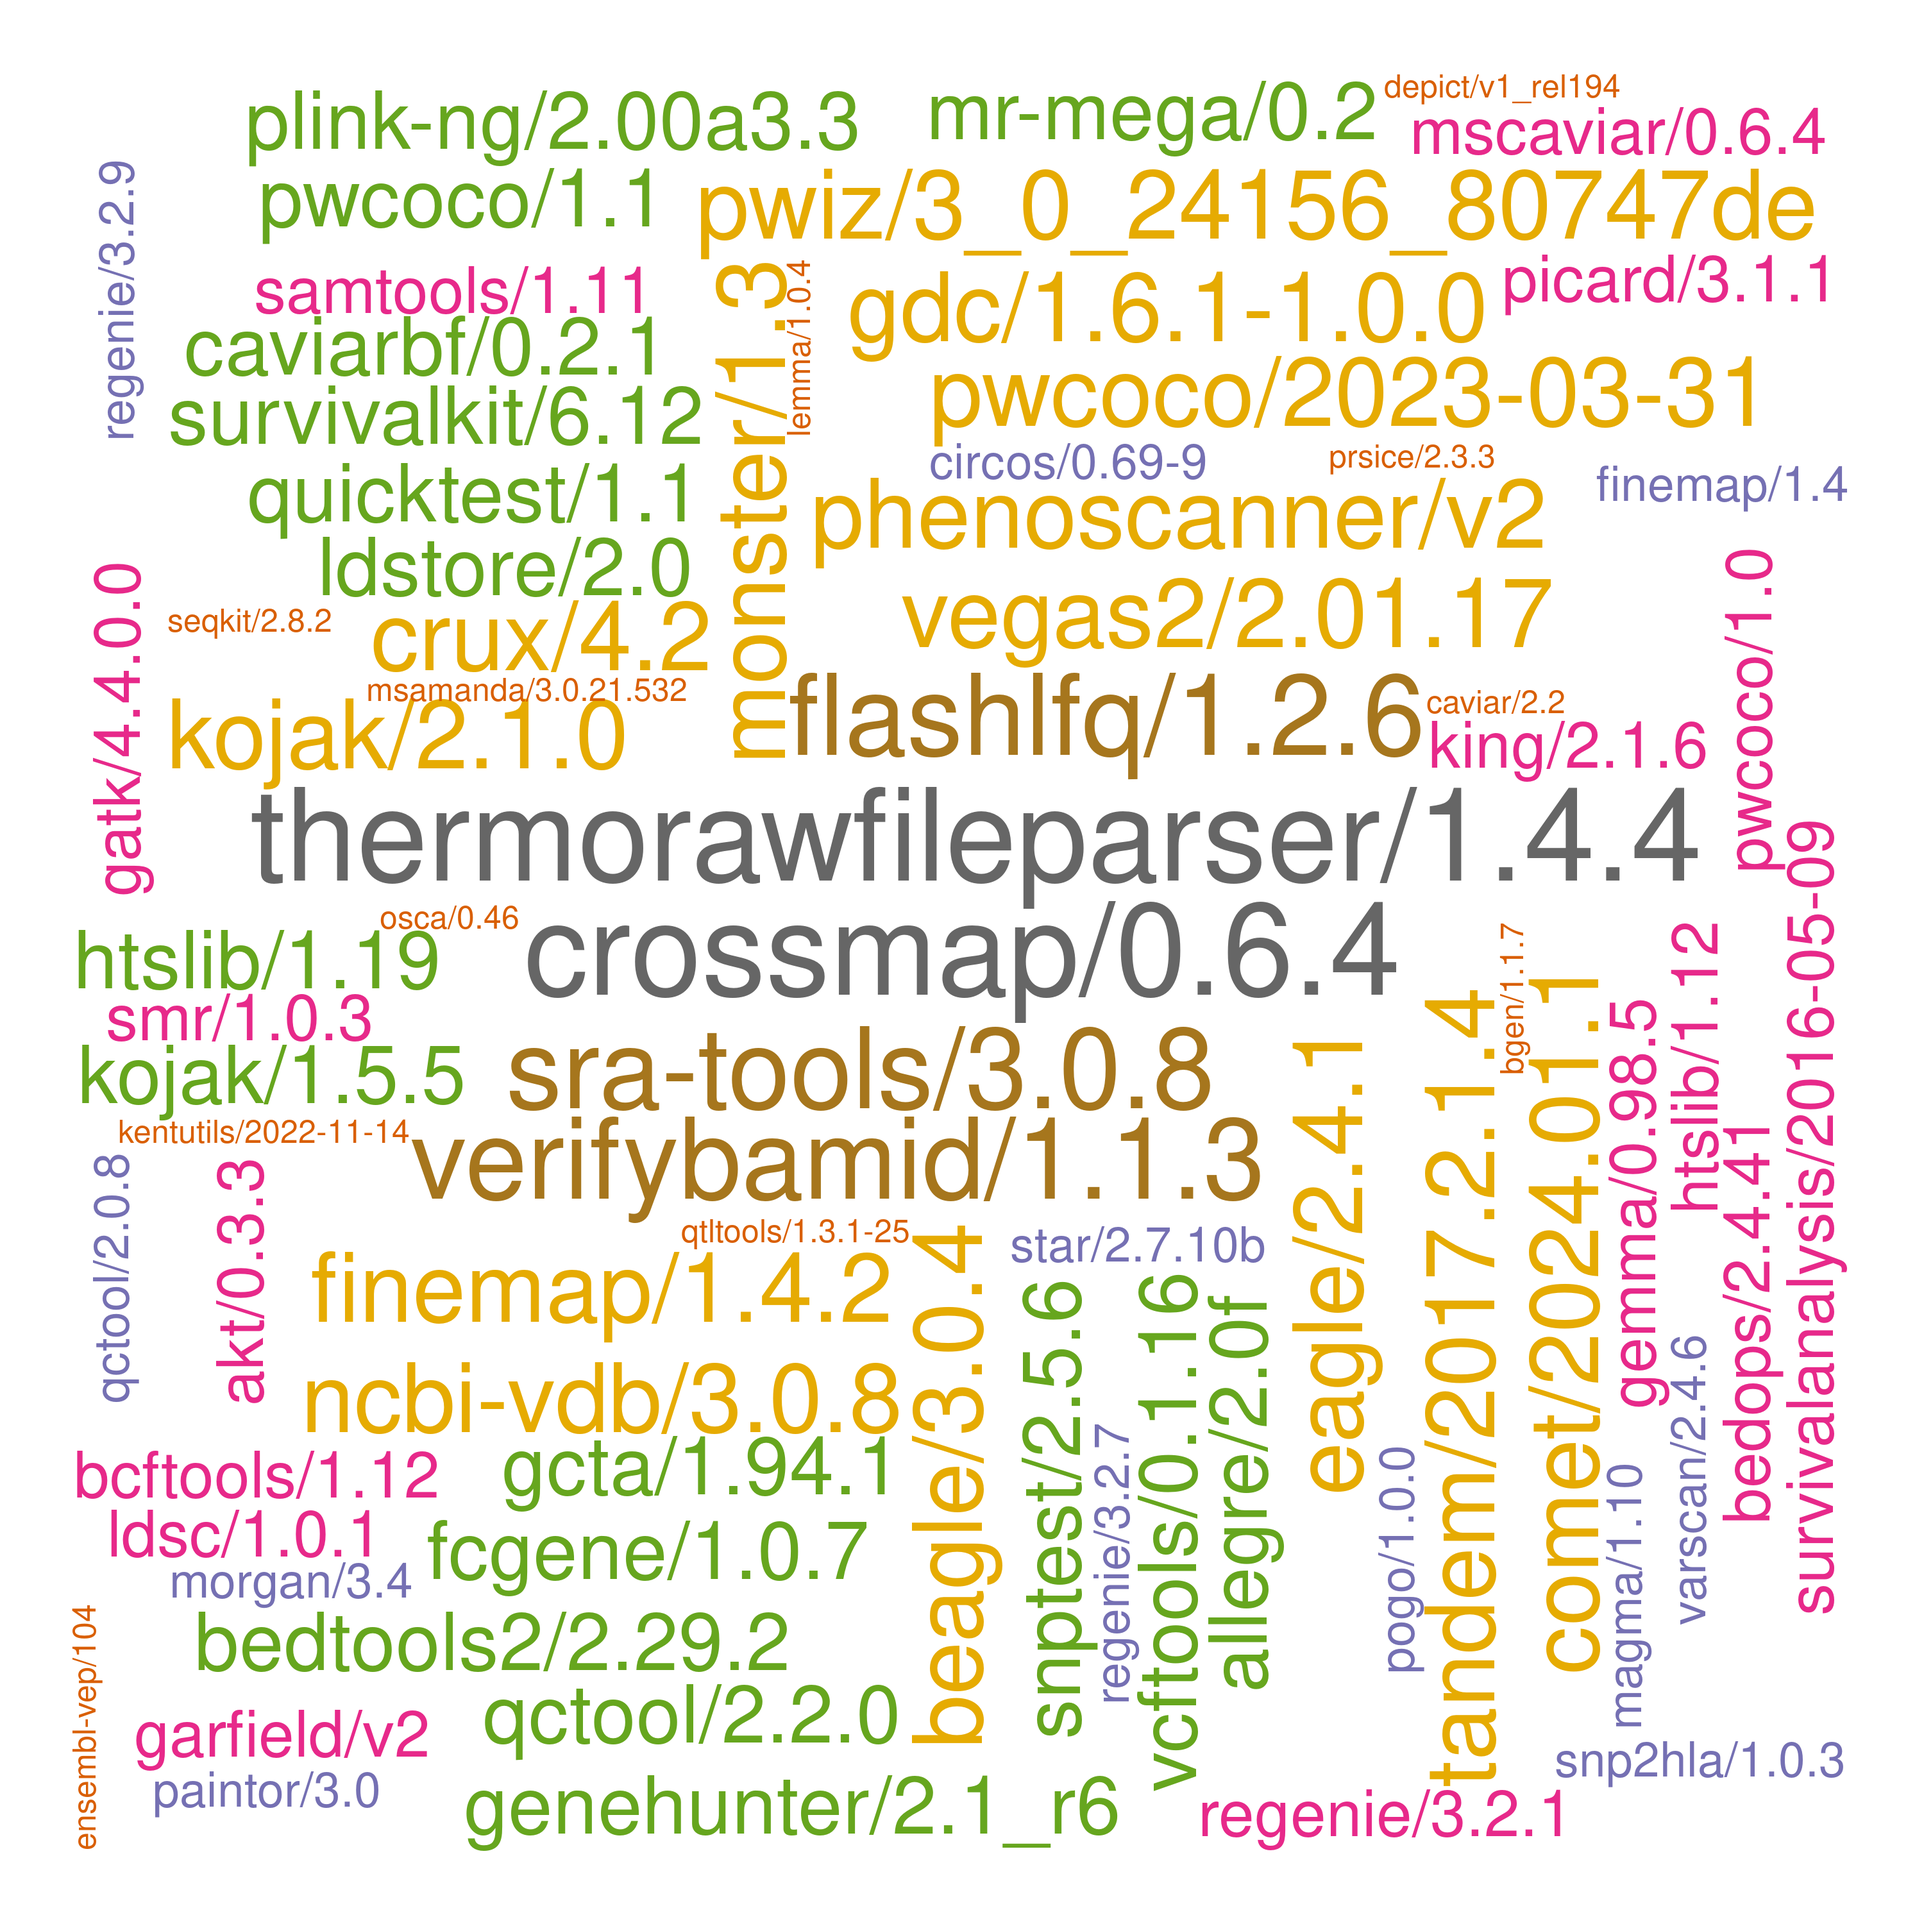
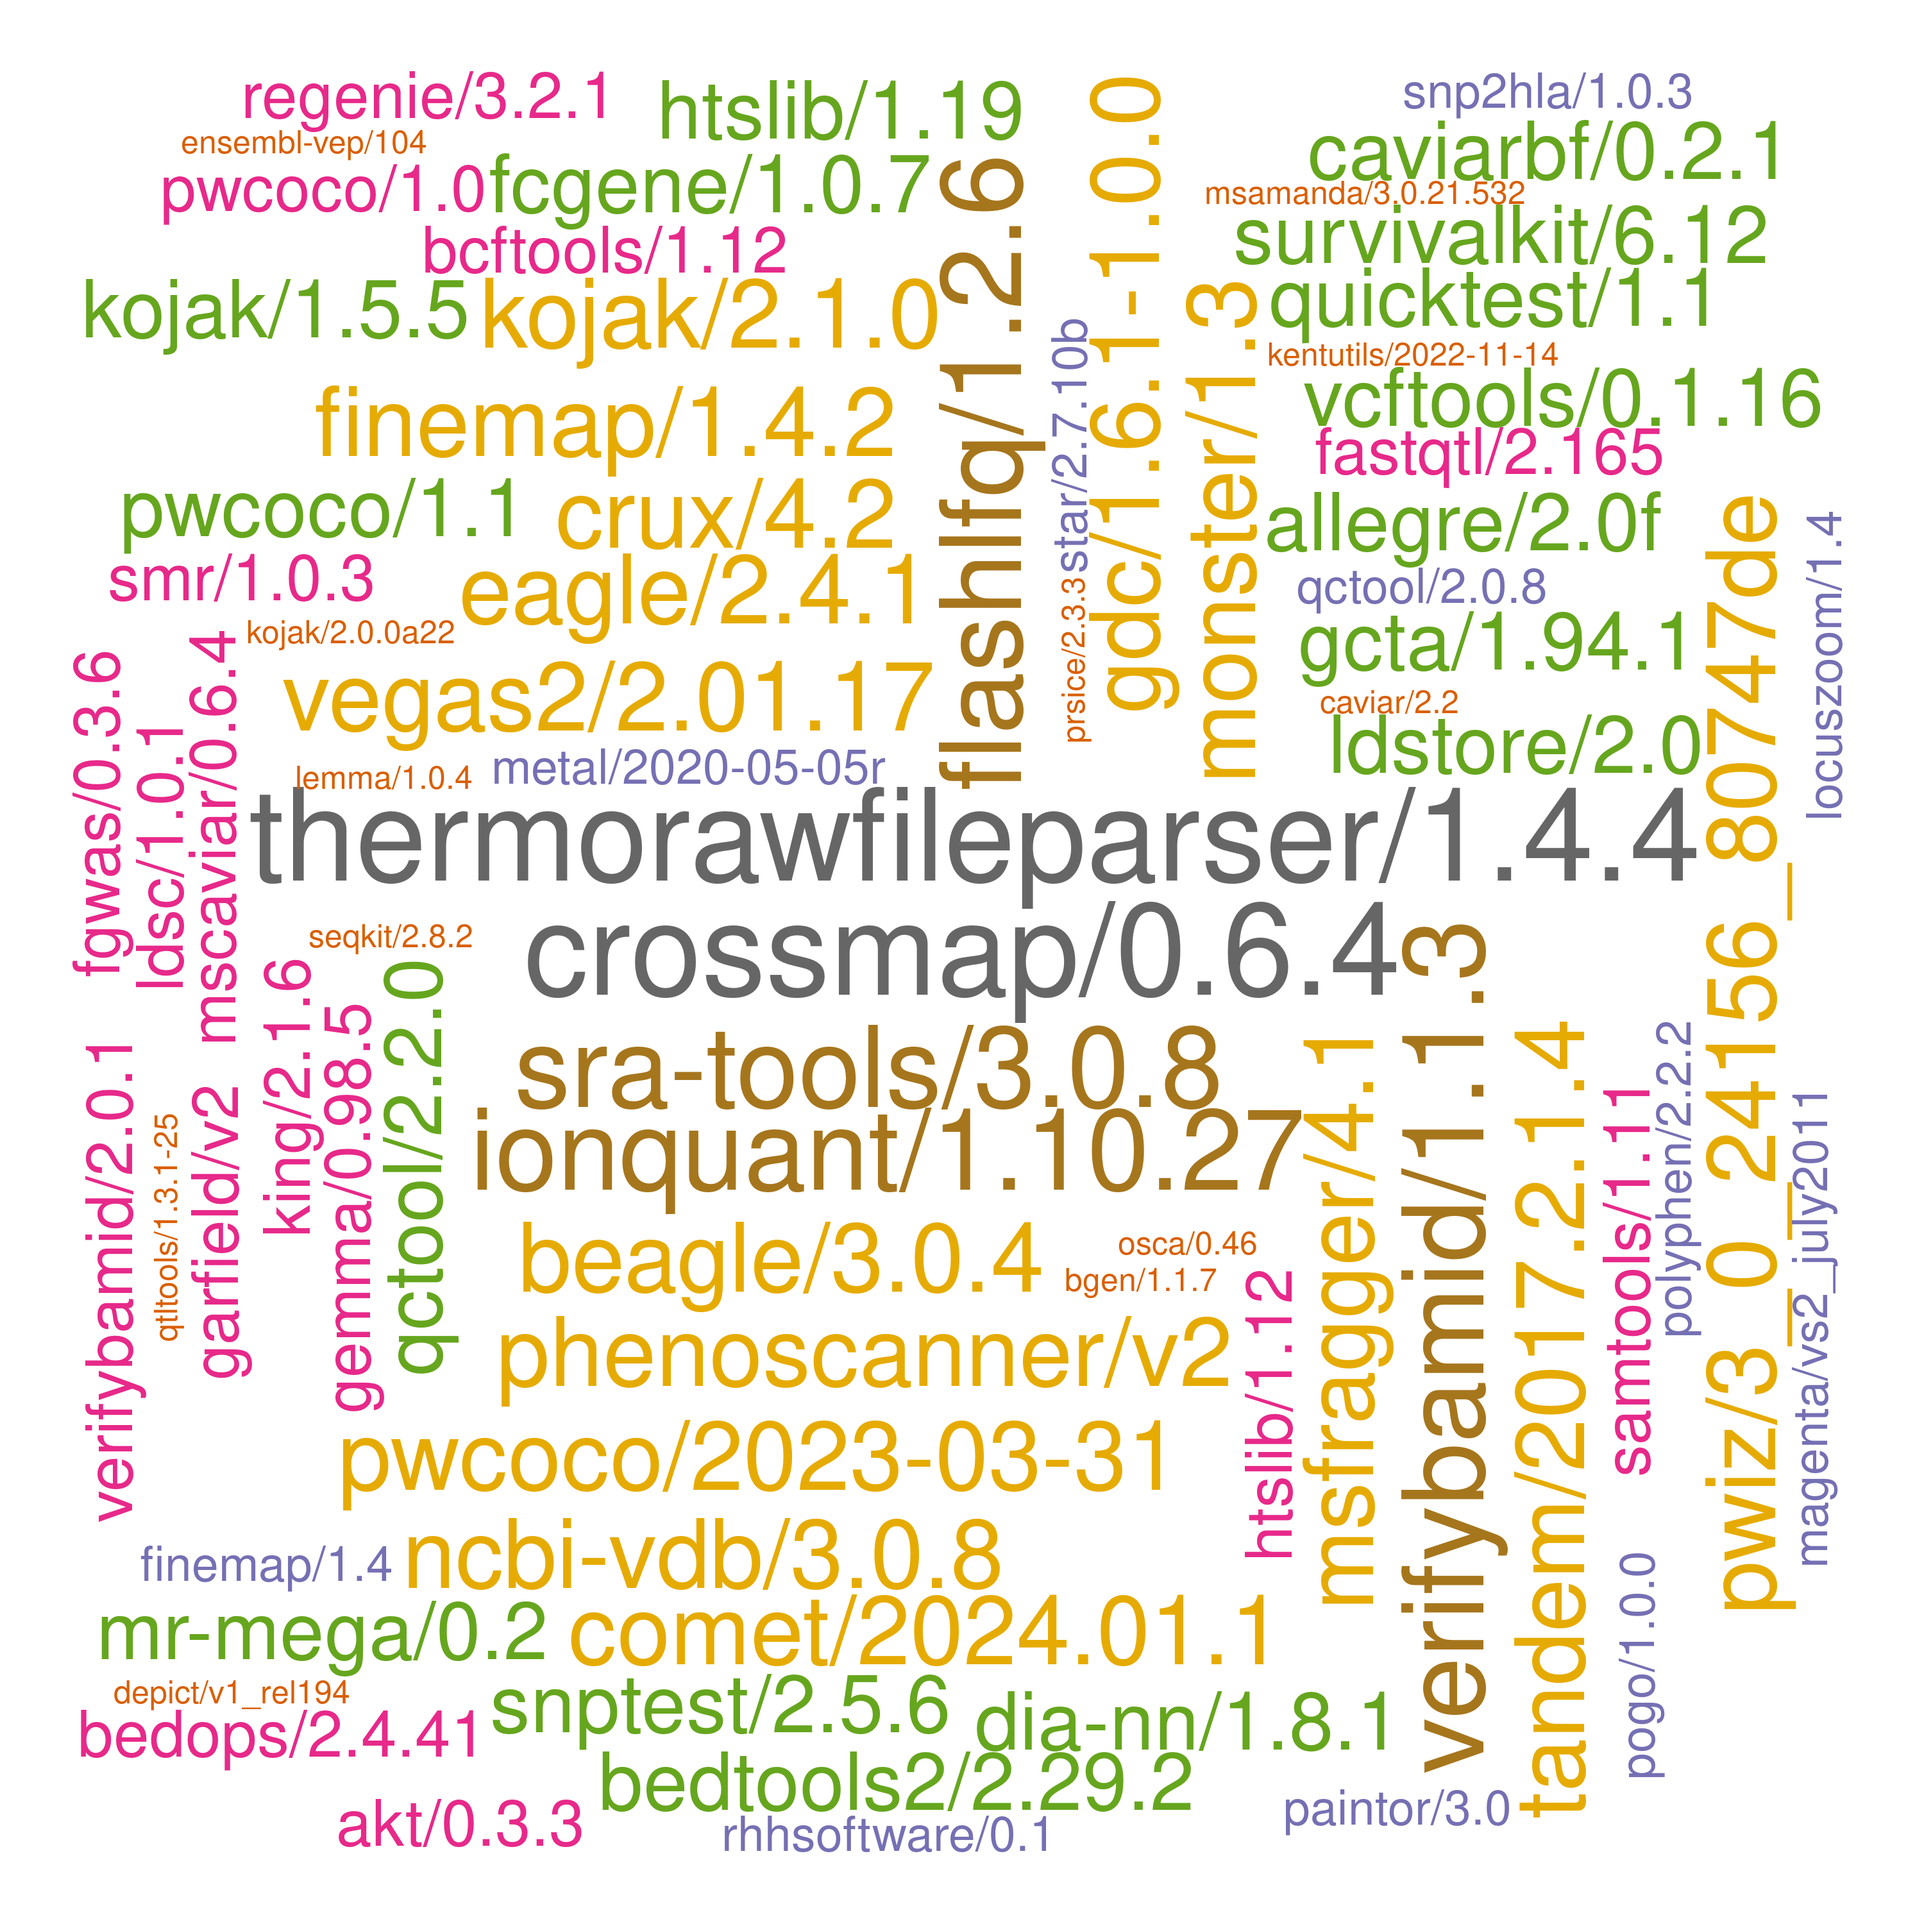
./

Changed region(s): [[0.031, 0.031, 0.961, 0.961], [0.403, 0.434, 0.434, 0.465]]

diff --git a/systems/ceuadmin.md b/systems/ceuadmin.md
@@ -42,47 +42,47 @@ The current list is as follows,
  [89] "graphene"               "GraphicsMagick"         "GreenAlgorithms4HPC"    "gsl"
  [93] "gtk+"                   "gtksourceview"          "gtool"                  "hivex"
  [97] "hpg"                    "htslib"                 "hunspell"               "icu"
-[101] "ImageJ"                 "ImageMagick"            "impute"                 "JabRef"
-[105] "JAGS"                   "jq"                     "json-c"                 "KentUtils"
-[109] "KING"                   "kojak"                  "krb5"                   "lapack"
-[113] "ldc2"                   "ldsc"                   "LDstore"                "LEMMA"
-[117] "libcares"               "libgit2"                "libglvnd"               "libiconv"
-[121] "libidn2"                "libntlm"                "libpng"                 "libseccomp"
-[125] "libsodium"              "libssh"                 "libssh2"                "libuv"
-[129] "libxml2"                "libxslt"                "linux"                  "locuszoom"
-[133] "LVM2"                   "MAGENTA"                "magma"                  "Mango"
-[137] "Mega2"                  "metal"                  "MetaMorpheus"           "Miniconda3"
-[141] "MONSTER"                "MORGAN"                 "MR-MEGA"                "MS-GF+"
-[145] "msamanda"               "MsCAVIAR"               "msms"                   "nano"
-[149] "ncbi-vdb"               "ncurses"                "netbeans"               "nettle"
-[153] "nextflow"               "nlopt"                  "NLopt"                  "node"
-[157] "nspr"                   "ntlm"                   "ocaml"                  "oniguruma"
-[161] "opam"                   "openjdk"                "OpenMS"                 "openssh"
-[165] "openssl"                "osca"                   "p7zip-zstd"             "PAINTOR"
-[169] "pandoc"                 "pandoc-citeproc"        "pango"                  "parallel"
-[173] "Pascal"                 "patchelf"               "pcre2"                  "pdf2djvu"
-[177] "pdfjam"                 "peer"                   "pgsc_calc"              "phenoscanner"
-[181] "PhySO"                  "picard"                 "pigz"                   "plink"
-[185] "plink-bgi"              "plinkseq"               "podman"                 "PoGo"
-[189] "polyphen"               "poppler"                "popt"                   "proj"
-[193] "PRSice"                 "pspp"                   "pulsar"                 "PWCoCo"
-[197] "pwiz"                   "qctool"                 "qemu"                   "qpdf"
-[201] "qt"                     "qtcreator"              "QTLtools"               "quarto"
-[205] "quicktest"              "R"                      "raremetal"              "rclone"
-[209] "readline"               "regenie"                "regtools"               "RHHsoftware"
-[213] "rst2pdf"                "rstudio"                "rtmpdump"               "ruby"
-[217] "rust"                   "samtools"               "Scala"                  "seqkit"
-[221] "shapeit"                "singularity"            "SMR"                    "snakemake"
-[225] "SNP2HLA"                "snptest"                "spread-sheet-widget"    "spyder"
-[229] "sqlite"                 "sra-tools"              "sshpass"                "ssw"
-[233] "STAR"                   "stata"                  "SurvivalAnalysis"       "SurvivalKit"
-[237] "Swift"                  "tabix"                  "tandem"                 "tatami"
-[241] "ThermoRawFileParser"    "ThermoRawFileParserGUI" "thunderbird"            "tidy"
-[245] "trinculo"               "trousers"               "Typora"                 "unbound"
-[249] "vala"                   "VarScan"                "vcftools"               "VEGAS2"
-[253] "verifyBamID"            "VSCode"                 "VSCodium"               "vte"
-[257] "wine"                   "xpdf"                   "yaml-cpp"               "Zotero"
-[261] "zstd"
+[101] "ImageJ"                 "ImageMagick"            "impute"                 "IonQuant"
+[105] "JabRef"                 "JAGS"                   "jq"                     "json-c"
+[109] "KentUtils"              "KING"                   "kojak"                  "krb5"
+[113] "lapack"                 "ldc2"                   "ldsc"                   "LDstore"
+[117] "LEMMA"                  "libcares"               "libgit2"                "libglvnd"
+[121] "libiconv"               "libidn2"                "libntlm"                "libpng"
+[125] "libseccomp"             "libsodium"              "libssh"                 "libssh2"
+[129] "libuv"                  "libxml2"                "libxslt"                "linux"
+[133] "locuszoom"              "LVM2"                   "MAGENTA"                "magma"
+[137] "Mango"                  "Mega2"                  "metal"                  "MetaMorpheus"
+[141] "Miniconda3"             "MONSTER"                "MORGAN"                 "MR-MEGA"
+[145] "MS-GF+"                 "msamanda"               "MsCAVIAR"               "MSFragger"
+[149] "msms"                   "nano"                   "ncbi-vdb"               "ncurses"
+[153] "netbeans"               "nettle"                 "nextflow"               "nlopt"
+[157] "NLopt"                  "node"                   "nspr"                   "ntlm"
+[161] "ocaml"                  "oniguruma"              "opam"                   "openjdk"
+[165] "OpenMS"                 "openssh"                "openssl"                "osca"
+[169] "p7zip-zstd"             "PAINTOR"                "pandoc"                 "pandoc-citeproc"
+[173] "pango"                  "parallel"               "Pascal"                 "patchelf"
+[177] "pcre2"                  "pdf2djvu"               "pdfjam"                 "peer"
+[181] "pgsc_calc"              "phenoscanner"           "PhySO"                  "picard"
+[185] "pigz"                   "plink"                  "plink-bgi"              "plinkseq"
+[189] "podman"                 "PoGo"                   "polyphen"               "poppler"
+[193] "popt"                   "proj"                   "PRSice"                 "pspp"
+[197] "pulsar"                 "PWCoCo"                 "pwiz"                   "qctool"
+[201] "qemu"                   "qpdf"                   "qt"                     "qtcreator"
+[205] "QTLtools"               "quarto"                 "quicktest"              "R"
+[209] "raremetal"              "rclone"                 "readline"               "regenie"
+[213] "regtools"               "RHHsoftware"            "rst2pdf"                "rstudio"
+[217] "rtmpdump"               "ruby"                   "rust"                   "samtools"
+[221] "Scala"                  "seqkit"                 "shapeit"                "singularity"
+[225] "SMR"                    "snakemake"              "SNP2HLA"                "snptest"
+[229] "spread-sheet-widget"    "spyder"                 "sqlite"                 "sra-tools"
+[233] "sshpass"                "ssw"                    "STAR"                   "stata"
+[237] "SurvivalAnalysis"       "SurvivalKit"            "Swift"                  "tabix"
+[241] "tandem"                 "tatami"                 "ThermoRawFileParser"    "ThermoRawFileParserGUI"
+[245] "thunderbird"            "tidy"                   "trinculo"               "trousers"
+[249] "Typora"                 "unbound"                "vala"                   "VarScan"
+[253] "vcftools"               "VEGAS2"                 "verifyBamID"            "VSCode"
+[257] "VSCodium"               "vte"                    "wine"                   "xpdf"
+[261] "yaml-cpp"               "Zotero"                 "zstd"
 ```
 
 These are wrapped up as :star::star::star: **[modules](https://modules.readthedocs.io/en/latest/index.html)** :star::star::star:.
@@ -349,6 +349,8 @@ Further information is avaiiable from **/usr/local/Cluster-Apps/ceuadmin/doc/ceu
     | 2024-08-14 | ThermoRawFileParser/1.4.4   | Proteomics          |
     | ""         | ThermoRawFileParserGUI/1.7.4| Proteomics          |
     |""          | FragPipe/22.0               | Proteomics          |
+    |2024-08-15  | MSFragger/4.1               | Proteomics          |
+   | ""          | IonQuant/1.10.27            | Proteomics          |
 
     \* CEU or approved users only.
 

diff --git a/systems/setup.md b/systems/setup.md
@@ -316,7 +316,9 @@ All entries are ordered chronologically.
 | 2024-08-12  | MS-GF+/2024.03.26                | Proteomics[^msgf]    |
 | 2024-08-14  | ThermoRawFileParser/1.4.4        | Proteomics           |
 | ""          | ThermoRawFileParserGUI/1.7.4     | Proteomics           |
-| ""          | FragPipe/22.0                    | Proteomics           |
+| ""          | FragPipe/22.0                    | Proteomics[^fragpipe]|
+| 2024-08-15  | MSFragger/4.1                    | Proteomics           |
+| ""          | IonQuant/1.10.27                 | Proteomics           |
 
 \* CEU or approved users only.
 
@@ -1402,3 +1404,14 @@ They are generated from script [setup.sh](setup.sh),
     java -Xmx4000M -jar MSGFPlus.jar -s test/test.mgf -o test/test.mzid \
          -d  test/BSA.fasta -conf test/MSGFDB_Param.txt
     ```
+
+[^fragpipe]: **FragPipe**
+
+    It does require Java 11, MSFragger 4.1, Python 3.9, and EasyPQp; to get around we use `openjdk/11.0.12_7/gcc/czpuqhmv`, `ceuadmin/MSFragger/4.1`, `ceuadmin/Anaconda3/2023.09-0`.
+
+    ```bash
+    source /usr/local/Cluster-Apps/ceuadmin/Anaconda3/2023.09-0/bin/activate
+    conda install git+https://github.com/grosenberger/easypqp.git@master
+    ```
+
+    IonQuant 1.10.27 is installed similarly.
